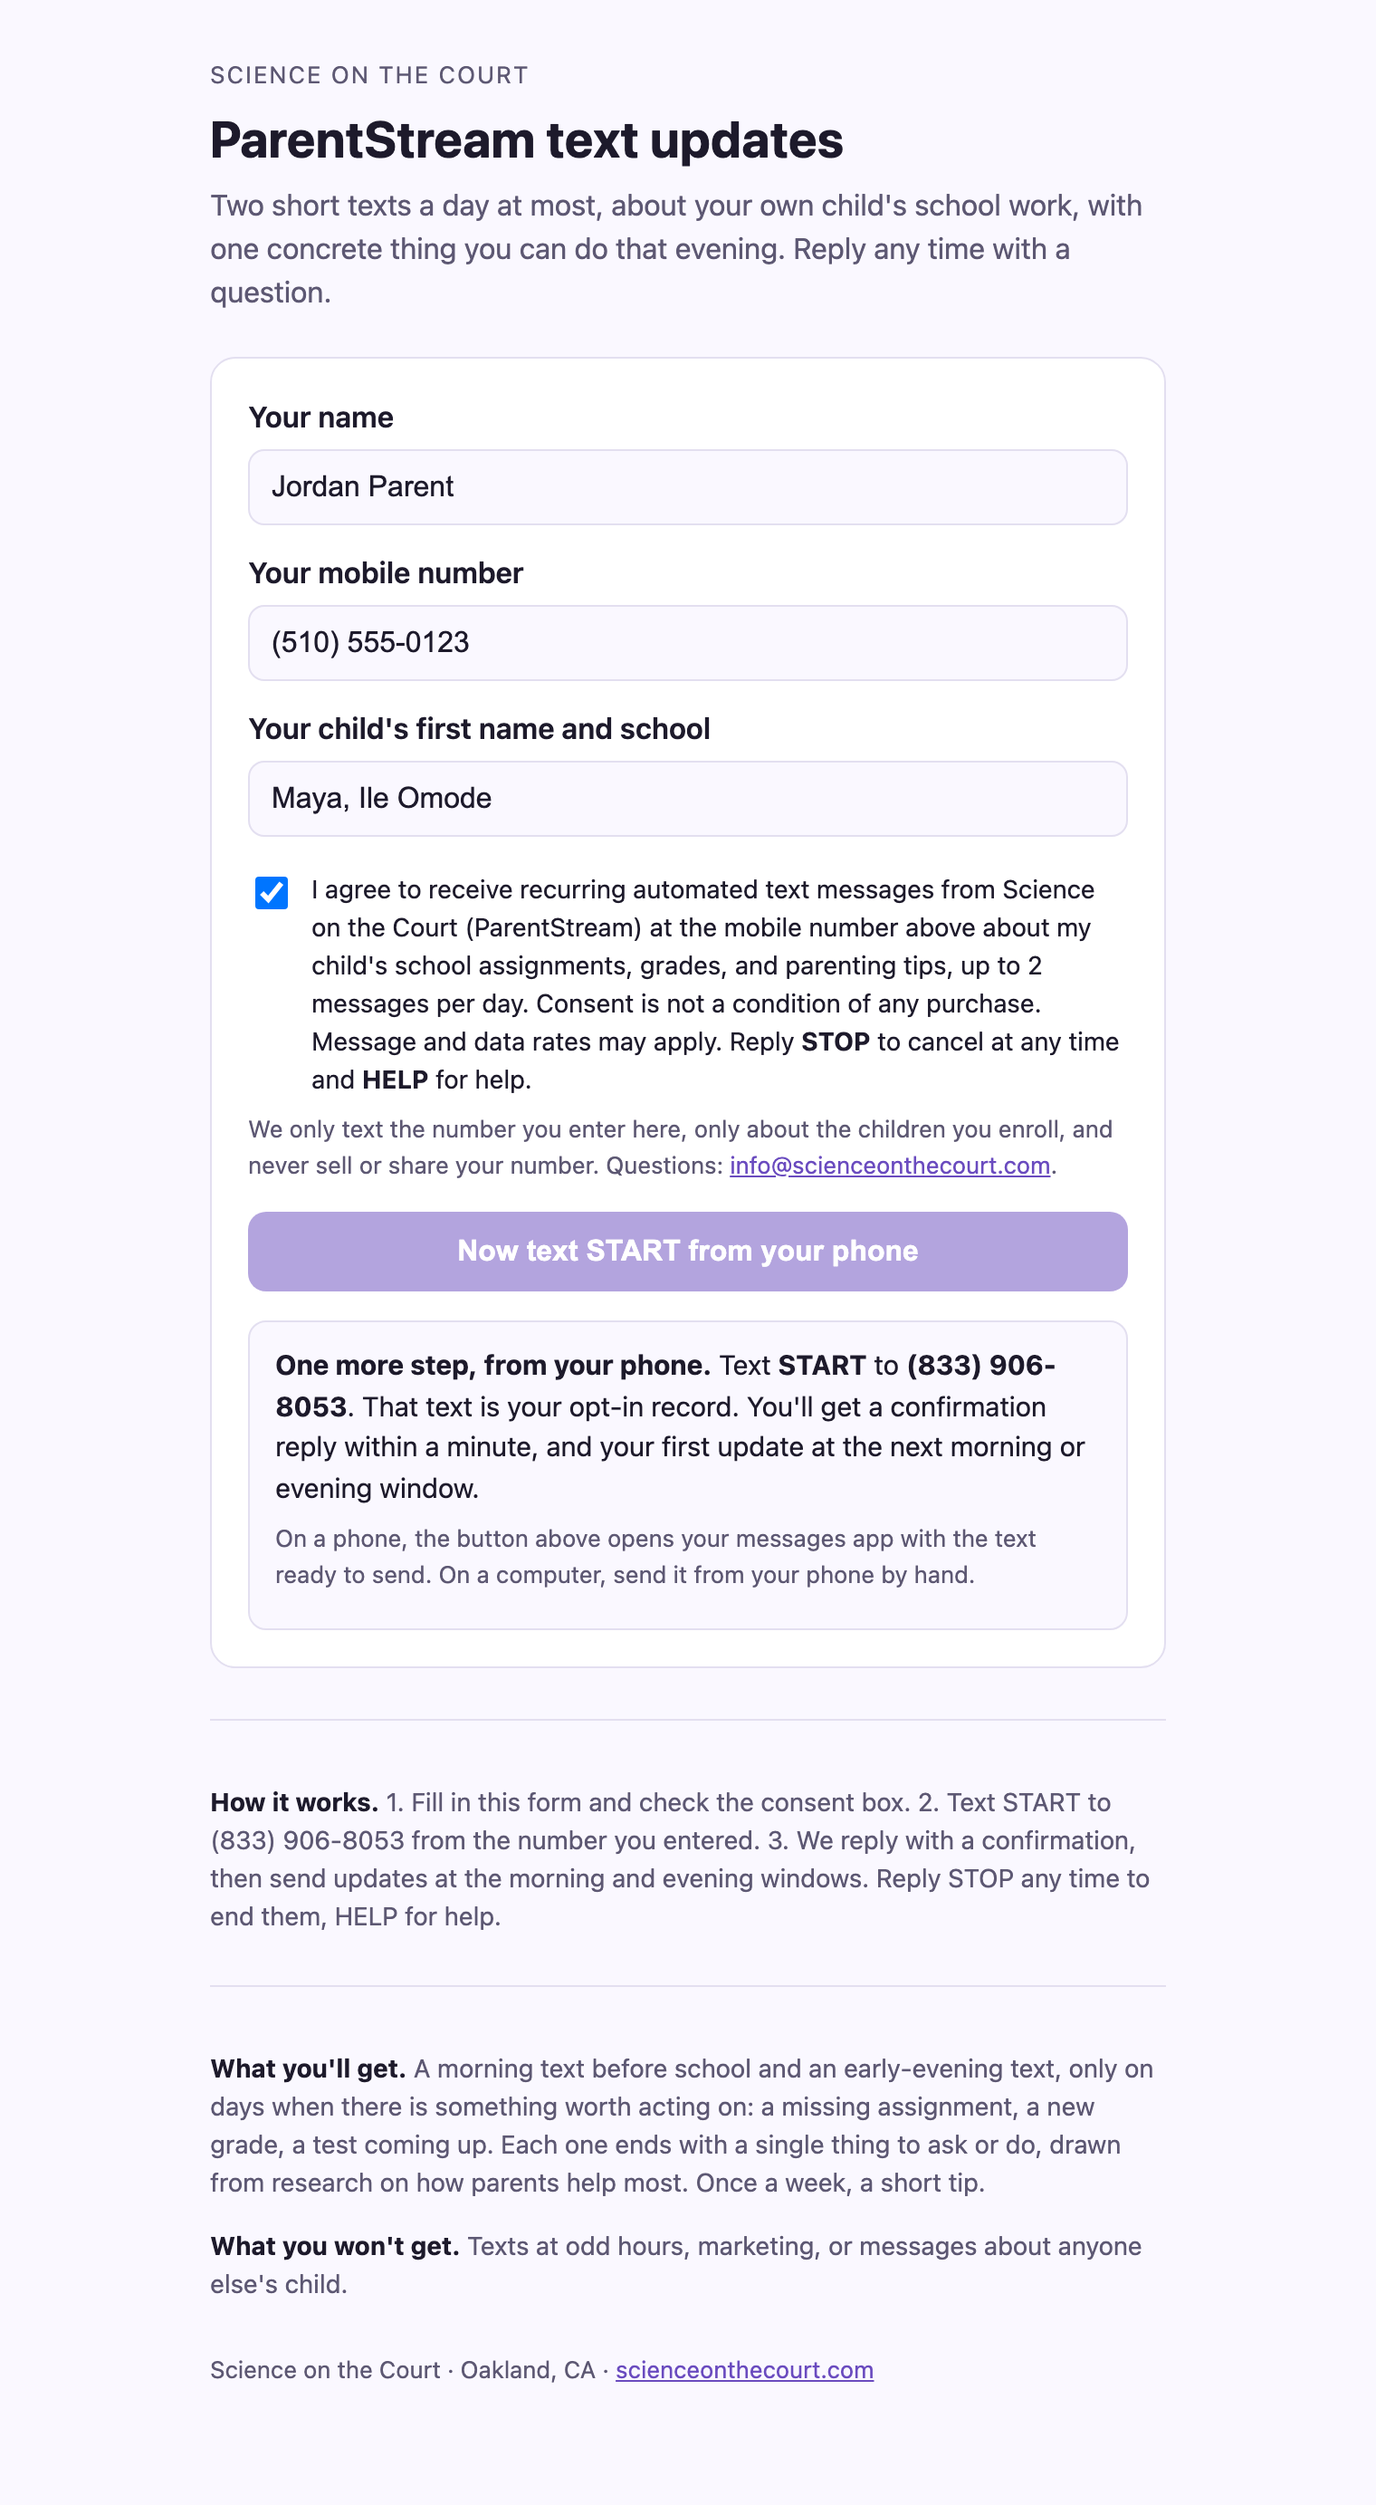
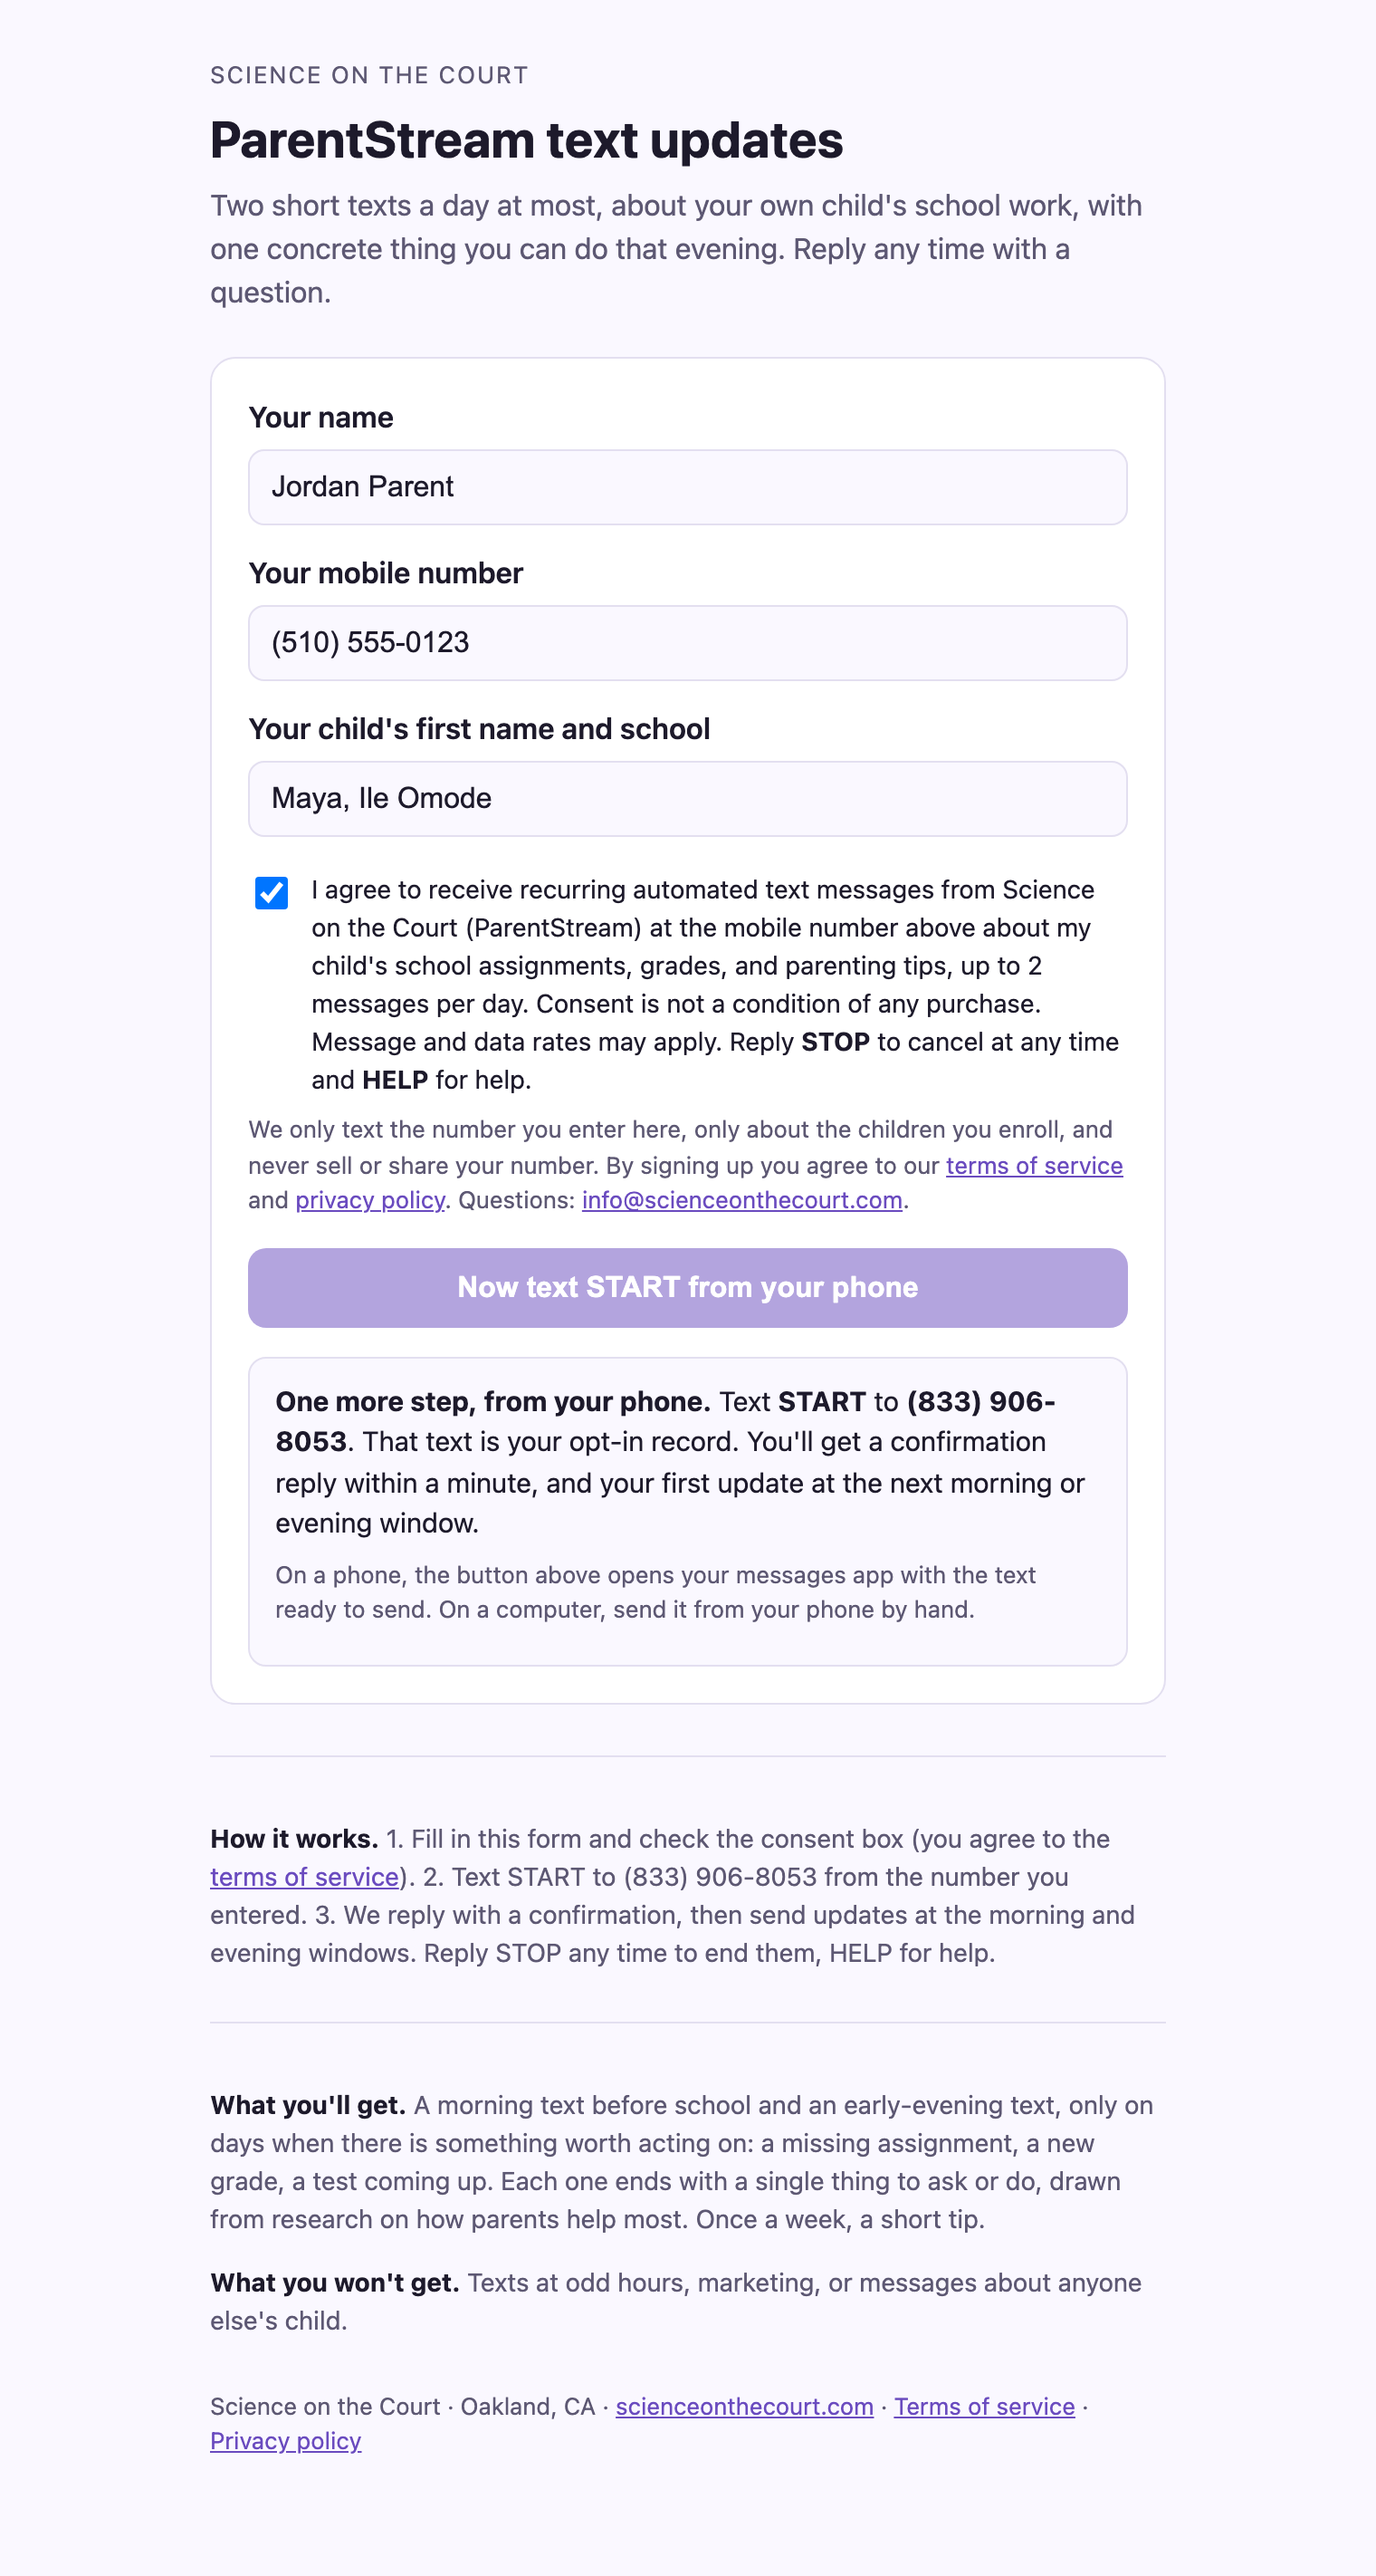
Add terms of service page

diff --git a/parentstream/signup/terms.html b/parentstream/signup/terms.html
@@ -1,0 +1,78 @@
+<!doctype html>
+<html lang="en">
+<head>
+<meta charset="utf-8">
+<meta name="viewport" content="width=device-width, initial-scale=1">
+<title>ParentStream Terms of Service</title>
+<meta name="description" content="Terms of service for ParentStream text updates from Science on the Court.">
+<style>
+  :root { --bg:#faf8ff; --fg:#1d1a2b; --muted:#5d5873; --line:#e3dff0; --accent:#6a4bbf; }
+  @media (prefers-color-scheme: dark) { :root:not([data-theme="light"]) { --bg:#16131f; --fg:#f1eefa; --muted:#b4adcc; --line:#352f48; --accent:#9b84e6; } }
+  :root[data-theme="dark"] { --bg:#16131f; --fg:#f1eefa; --muted:#b4adcc; --line:#352f48; --accent:#9b84e6; }
+  * { box-sizing: border-box; }
+  body { margin:0; background:var(--bg); color:var(--fg); font:16px/1.6 -apple-system, BlinkMacSystemFont, "Segoe UI", Helvetica, Arial, sans-serif; }
+  main { max-width: 640px; margin: 0 auto; padding: 32px 16px 64px; }
+  .brand { font-size: 13px; letter-spacing: .08em; text-transform: uppercase; color: var(--muted); margin: 0 0 8px; }
+  h1 { font-size: 28px; line-height: 1.2; margin: 0 0 4px; }
+  .date { color: var(--muted); margin: 0 0 24px; font-size: 14px; }
+  h2 { font-size: 18px; margin: 28px 0 8px; }
+  p, li { margin: 0 0 10px; }
+  ul { padding-left: 20px; }
+  a { color: var(--accent); }
+  footer { margin-top: 36px; padding-top: 16px; border-top: 1px solid var(--line); font-size: 13px; color: var(--muted); }
+</style>
+</head>
+<body>
+<main>
+  <p class="brand">Science on the Court</p>
+  <h1>ParentStream Terms of Service</h1>
+  <p class="date">Effective October 26, 2026</p>
+
+  <p>ParentStream is a text-message (SMS) service operated by Science on the Court ("we", "us") for parents and guardians of students in our programs. By signing up on our website and texting START to (833) 906-8053, you agree to these terms.</p>
+
+  <h2>1. The program</h2>
+  <p>ParentStream sends you short text messages about your own child's school work: assignments, due dates, missing work, grades, and upcoming tests, each with one concrete thing you can ask or do. Once a week it may also send a short parenting tip. You can text a question back at any time and we will answer it.</p>
+
+  <h2>2. Message frequency</h2>
+  <p>Up to 2 messages per day, sent in a morning window before school and an early-evening window. On days with nothing worth acting on, we send nothing. Replies to questions you text us are in addition to this.</p>
+
+  <h2>3. Cost</h2>
+  <p>ParentStream is free during the pilot. <strong>Message and data rates may apply</strong> according to your mobile carrier's plan. Consent to receive texts is not a condition of any purchase.</p>
+
+  <h2>4. How to opt in</h2>
+  <p>You enroll by filling in the sign-up form at <a href="./">our sign-up page</a>, checking the consent box, and then texting <strong>START</strong> to (833) 906-8053 from the mobile number you entered. Your START text is your opt-in record. We will reply with a confirmation message.</p>
+
+  <h2>5. How to opt out</h2>
+  <p>Reply <strong>STOP</strong> to any message at any time. You will receive one final confirmation text and no further messages. To rejoin, text START again.</p>
+
+  <h2>6. Help and support</h2>
+  <p>Reply <strong>HELP</strong> to any message for contact information, or email <a href="mailto:info@scienceonthecourt.com">info@scienceonthecourt.com</a>, or call (510) 213-8563.</p>
+
+  <h2>7. Carriers</h2>
+  <p>Supported carriers include AT&amp;T, T-Mobile, Verizon, and most other major U.S. carriers. Carriers are not liable for delayed or undelivered messages. Delivery is subject to effective transmission from your network operator.</p>
+
+  <h2>8. Your responsibilities</h2>
+  <ul>
+    <li>Enroll only a mobile number you own and are authorized to use.</li>
+    <li>Enroll only children for whom you are the parent or legal guardian.</li>
+    <li>Tell us if you change your mobile number, by emailing us or texting STOP from the old number and signing up again.</li>
+  </ul>
+
+  <h2>9. Privacy</h2>
+  <p>How we collect, use, and protect your information is described in our <a href="privacy.html">Privacy Policy</a>. No mobile information will be shared with third parties or affiliates for marketing or promotional purposes.</p>
+
+  <h2>10. No guarantees</h2>
+  <p>ParentStream summarizes information from your child's school portal and may be incomplete, delayed, or contain errors. It is not a substitute for the school's own records, and we are not responsible for decisions made on the basis of a text. The service is provided as is, and we may change, pause, or end it at any time.</p>
+
+  <h2>11. Changes to these terms</h2>
+  <p>If these terms change in a way that matters to you, we will text you a notice before the change takes effect. Continuing to receive messages after that means you accept the updated terms.</p>
+
+  <h2>12. Contact</h2>
+  <p>Science on the Court, Oakland, CA<br>
+  <a href="mailto:info@scienceonthecourt.com">info@scienceonthecourt.com</a> · (510) 213-8563<br>
+  <a href="https://scienceonthecourt.com">scienceonthecourt.com</a></p>
+
+  <footer><a href="./">Back to the ParentStream sign-up page</a> · <a href="privacy.html">Privacy policy</a></footer>
+</main>
+</body>
+</html>

diff --git a/parentstream/signup/index.html b/parentstream/signup/index.html
@@ -29,6 +29,7 @@
   #done p { margin: 0 0 8px; }
   .what { margin-top: 28px; padding-top: 20px; border-top: 1px solid var(--line); font-size: 14px; color: var(--muted); }
   .what strong { color: var(--fg); }
+  .what a { color: var(--accent); }
   footer { margin-top: 28px; font-size: 13px; color: var(--muted); }
   footer a { color: var(--accent); }
 </style>
@@ -52,7 +53,7 @@
     <label class="consent"><input type="checkbox" id="consent" name="consent" required>
       <span>I agree to receive recurring automated text messages from Science on the Court (ParentStream) at the mobile number above about my child's school assignments, grades, and parenting tips, up to 2 messages per day. Consent is not a condition of any purchase. Message and data rates may apply. Reply <strong>STOP</strong> to cancel at any time and <strong>HELP</strong> for help.</span>
     </label>
-    <p class="fine">We only text the number you enter here, only about the children you enroll, and never sell or share your number. See our <a href="privacy.html">privacy policy</a>. Questions: <a href="mailto:info@scienceonthecourt.com">info@scienceonthecourt.com</a>.</p>
+    <p class="fine">We only text the number you enter here, only about the children you enroll, and never sell or share your number. By signing up you agree to our <a href="terms.html">terms of service</a> and <a href="privacy.html">privacy policy</a>. Questions: <a href="mailto:info@scienceonthecourt.com">info@scienceonthecourt.com</a>.</p>
 
     <button type="submit" id="go" disabled>Sign me up</button>
     <div id="done" hidden>
@@ -62,7 +63,7 @@
   </form>
 
   <div class="what">
-    <p><strong>How it works.</strong> 1. Fill in this form and check the consent box. 2. Text START to (833) 906-8053 from the number you entered. 3. We reply with a confirmation, then send updates at the morning and evening windows. Reply STOP any time to end them, HELP for help.</p>
+    <p><strong>How it works.</strong> 1. Fill in this form and check the consent box (you agree to the <a href="terms.html">terms of service</a>). 2. Text START to (833) 906-8053 from the number you entered. 3. We reply with a confirmation, then send updates at the morning and evening windows. Reply STOP any time to end them, HELP for help.</p>
   </div>
 
   <div class="what">
@@ -70,7 +71,7 @@
     <p><strong>What you won't get.</strong> Texts at odd hours, marketing, or messages about anyone else's child.</p>
   </div>
 
-  <footer>Science on the Court · Oakland, CA · <a href="https://scienceonthecourt.com">scienceonthecourt.com</a> · <a href="privacy.html">Privacy policy</a></footer>
+  <footer>Science on the Court · Oakland, CA · <a href="https://scienceonthecourt.com">scienceonthecourt.com</a> · <a href="terms.html">Terms of service</a> · <a href="privacy.html">Privacy policy</a></footer>
 </main>
 <script>
   const f = document.getElementById('f'), go = document.getElementById('go'), c = document.getElementById('consent');

diff --git a/parentstream/signup/privacy.html b/parentstream/signup/privacy.html
@@ -73,7 +73,7 @@
   <a href="mailto:info@scienceonthecourt.com">info@scienceonthecourt.com</a> · (510) 213-8563<br>
   <a href="https://scienceonthecourt.com">scienceonthecourt.com</a></p>
 
-  <footer><a href="./">Back to the ParentStream sign-up page</a></footer>
+  <footer><a href="./">Back to the ParentStream sign-up page</a> · <a href="terms.html">Terms of service</a></footer>
 </main>
 </body>
 </html>
